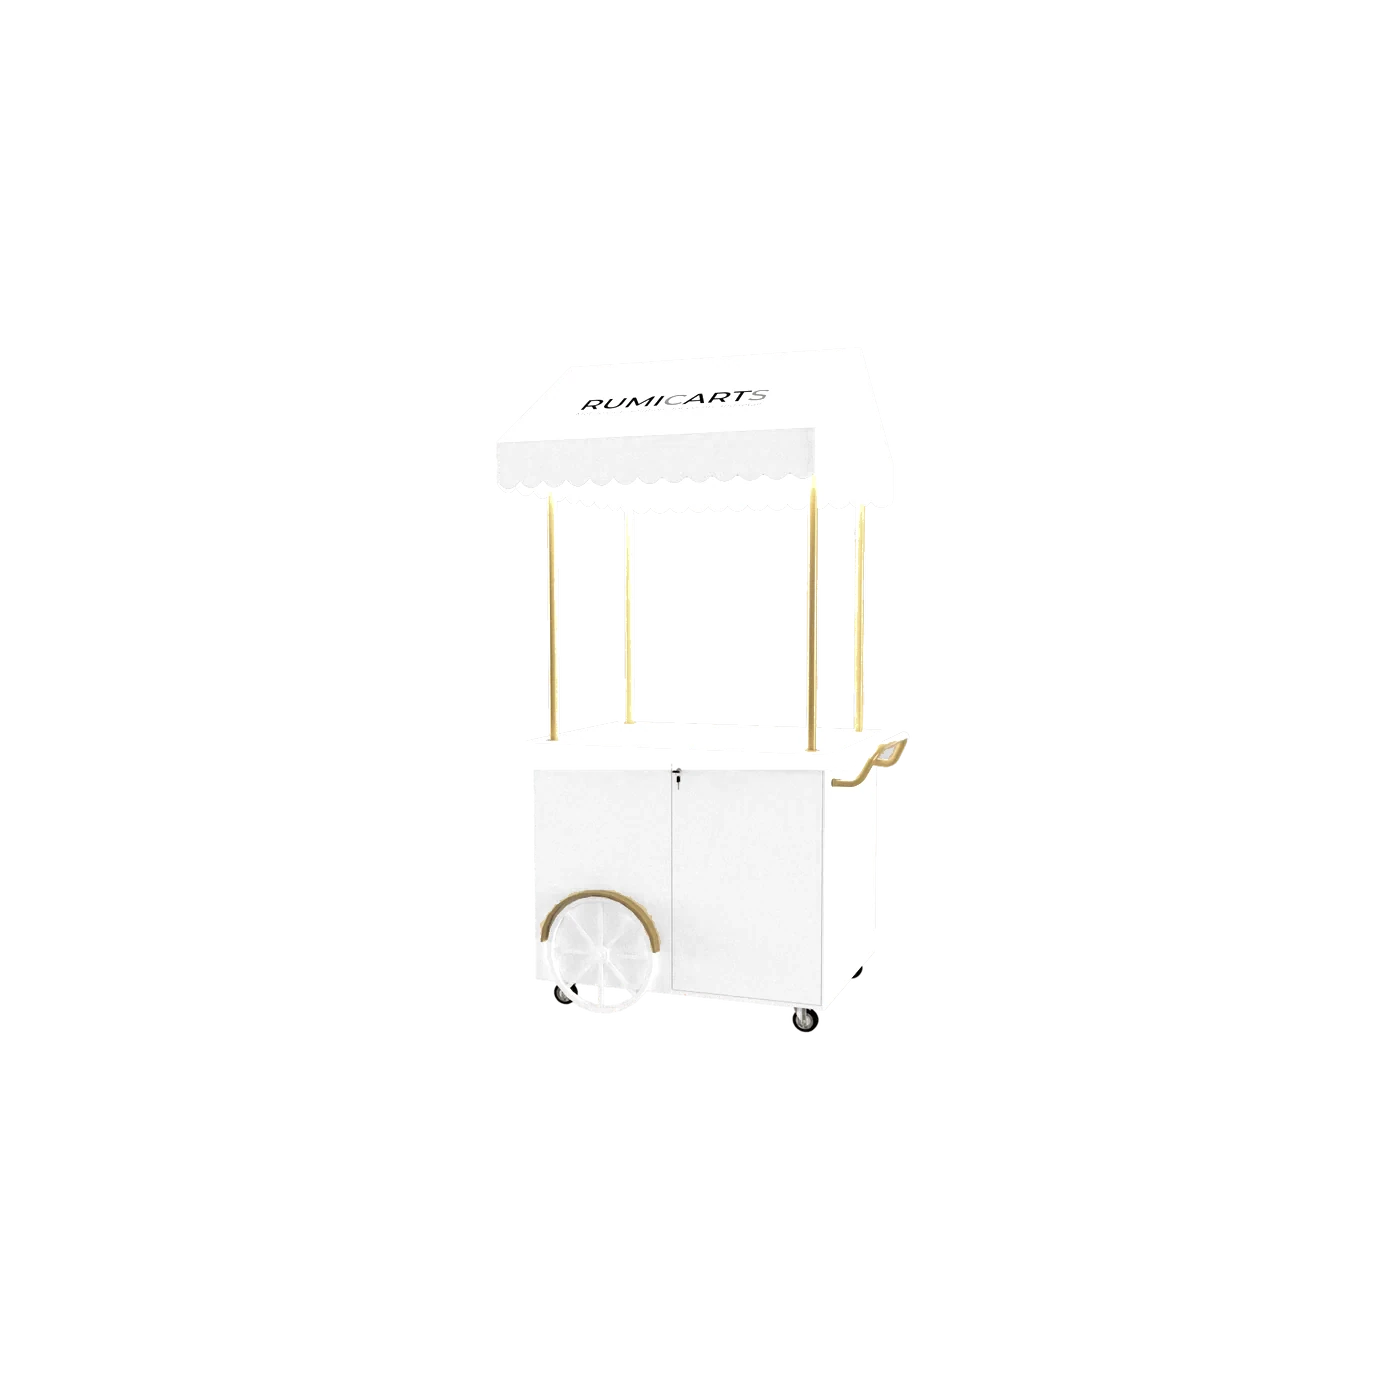
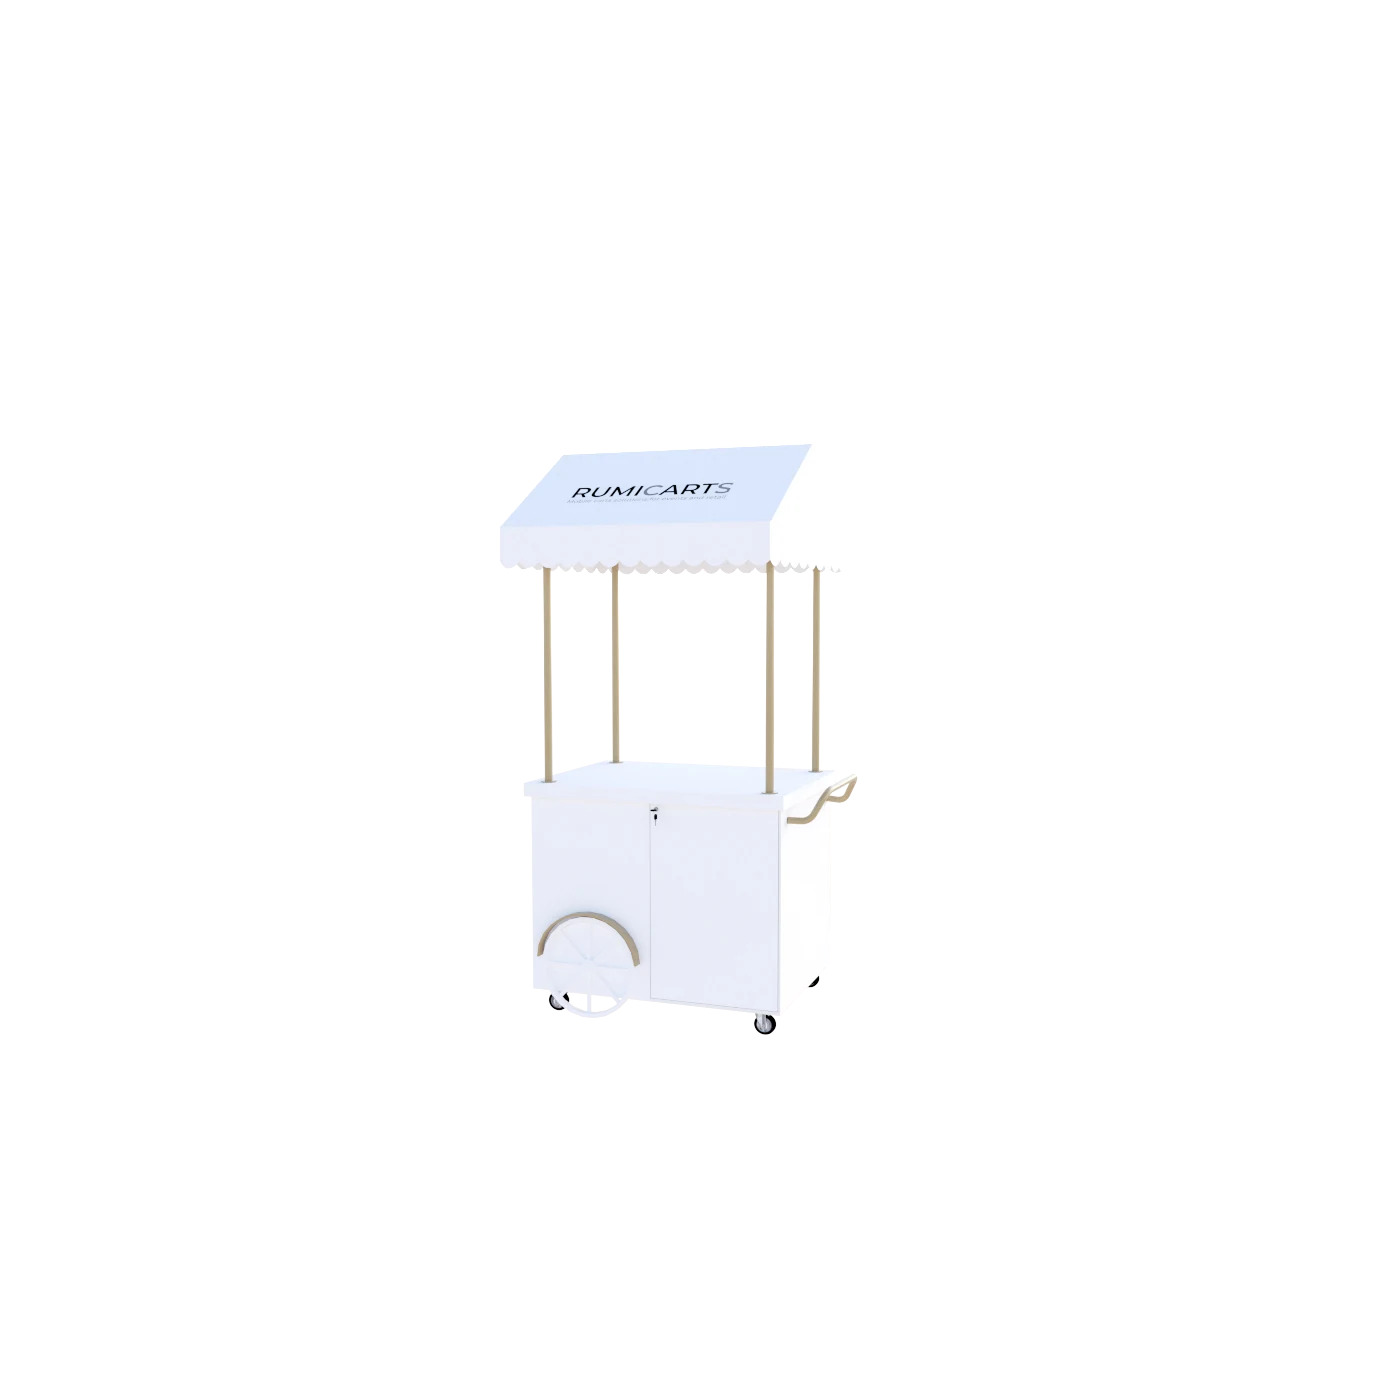
Renders(100 rafsiz): marka kalitesi yeniden render (altin direk, beyaz, R=200 standart)
100 rafsiz ana set 100 rafli ile birebir acida (renders/ kamera + C nisan, EV18 altin
ayar export'tan). 7 aci x mat+lake = 14 webp. Kullanici SketchUp'ta tente ters
yuzlerini duzeltti. realLake'e kok /renders eklendi (lake render konfiguratorde aktif).

diff --git a/src/components/CustomizeDialog.tsx b/src/components/CustomizeDialog.tsx
@@ -191,11 +191,12 @@ export function CustomizeDialog({ product, open, onOpenChange }: Props) {
     variant === "" &&
     !hasAsset &&
     (renderBase === "/renders" || renderBase === "/renders/150");
-  // Gerçek Lake render'ı (V-Ray gövde reflection) ŞU AN sadece 100 raflı beyaz sette var.
-  // Orada CSS lake filtresi yerine gerçek -lake webp kullanılır; diğer setlerde CSS devam eder.
+  // Gerçek Lake render'ı (V-Ray gövde reflection) beyaz sette var: 100 raflı (/renders/100-rafli)
+  // ve 100 rafsız (kök /renders). Orada CSS lake filtresi yerine gerçek -lake webp kullanılır;
+  // diğer setlerde CSS devam eder.
   const realLake =
     isLake &&
-    renderBase === "/renders/100-rafli" &&
+    (renderBase === "/renders/100-rafli" || renderBase === "/renders") &&
     !COLOR_RENDER_IDS.has(colorId) &&
     !hasAsset &&
     !metalActive;
